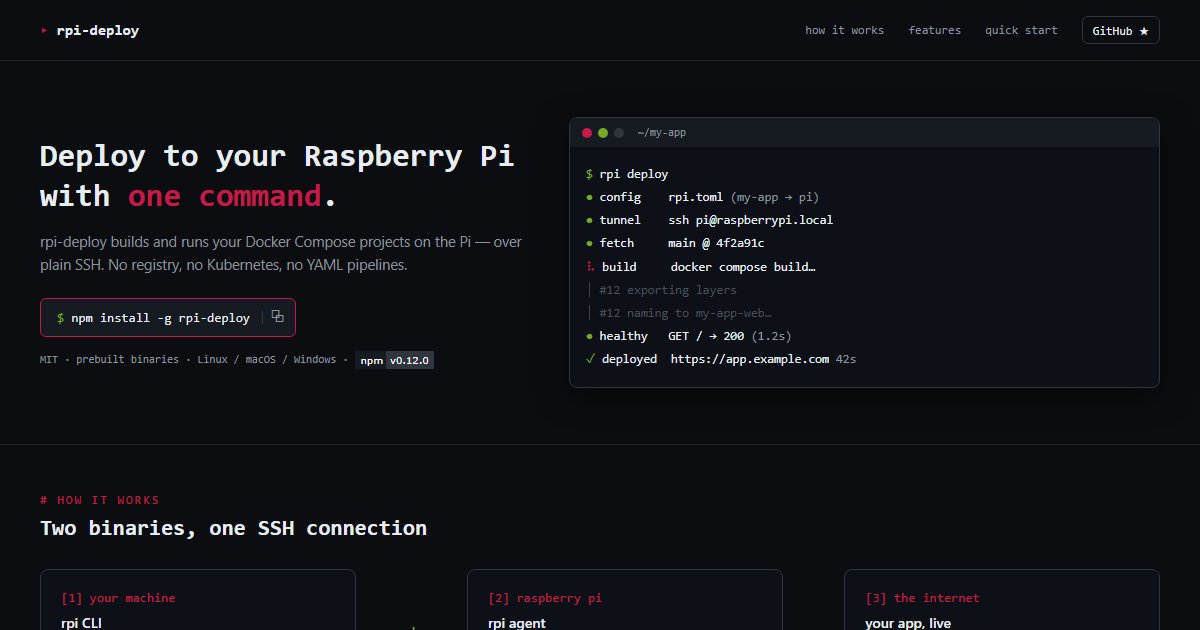
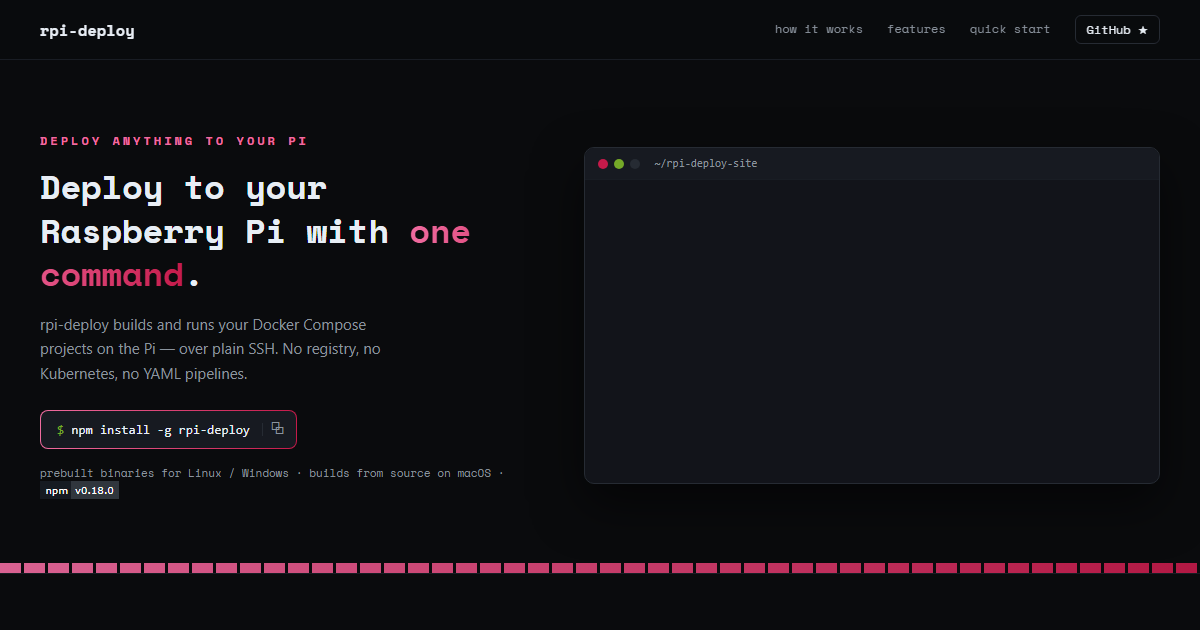
chore: sync landing with v0.18.0 release
Post-release audit found: hero/quick-start transcripts stuck on 0.17.1,
hero-meta overstated macOS as a prebuilt-binary platform (it's source-build
only), the rpi setup quick-start line was invented rather than transcribed
from real output, and the step-4 mini deploy concatenated two stage lines
onto one row that rpi deploy never actually prints. Also added feature
cards for the two flagship v0.18.0 capabilities (deploy pipeline view,
deploy-key preflight) and regenerated the OG screenshot for the hero edits.

diff --git a/src/index.html b/src/index.html
@@ -53,7 +53,7 @@
         <code><span class="prompt">$</span> npm install -g rpi-deploy</code>
         <button type="button" class="copy-btn" data-copy="npm install -g rpi-deploy" aria-label="Copy install command">⧉</button>
       </div>
-      <p class="hero-meta">prebuilt binaries · Linux / macOS / Windows · <img class="badge" src="https://img.shields.io/npm/v/rpi-deploy?style=flat-square&amp;label=npm&amp;labelColor=161b22&amp;color=30363d" alt="npm version"></p>
+      <p class="hero-meta">prebuilt binaries for Linux / Windows · builds from source on macOS · <img class="badge" src="https://img.shields.io/npm/v/rpi-deploy?style=flat-square&amp;label=npm&amp;labelColor=161b22&amp;color=30363d" alt="npm version"></p>
     </div>
     <div class="hero-terminal">
       <div class="terminal">
@@ -69,7 +69,7 @@
 <span class="g2">▓▓▓▓▓▓</span>  deploy · rpi-deploy-site
 <span class="g3">▓▓▓▓</span>
 <span class="g4">██</span></span>
-<span class="tline"><span class="raspberry">▸</span> agent 0.17.1 (api v1)</span>
+<span class="tline"><span class="raspberry">▸</span> agent 0.18.0 (api v1)</span>
 <span class="tline"><span class="raspberry">▸</span> deployment 3f9c21a4-8b7e-4c2a-9f1d-2e6a5b0c7d84 started; streaming logs:</span>
 <span class="tline"><span class="green">✓</span> fetch <span class="muted">(1.4s)</span></span>
 <span class="tline">fetched 4f2a91c</span>
@@ -153,6 +153,16 @@
         <h3>Installs in seconds</h3>
         <p>Pulls a prebuilt binary for your OS via npm — no Rust toolchain, no compile step, no Docker on your machine.</p>
       </div>
+      <div class="card feature">
+        <span class="dchip" aria-hidden="true"></span>
+        <h3>Live deploy pipeline</h3>
+        <p>Each stage — fetch, build, start, health, route, gc — collapses to a timed summary as it finishes, with a service count in the final stamp.</p>
+      </div>
+      <div class="card feature">
+        <span class="dchip" aria-hidden="true"></span>
+        <h3>Deploy-key preflight</h3>
+        <p>First deploy of a private repo won't fail on a missing key — <code>rpi</code> registers a read-only GitHub deploy key for you, or shows it and waits.</p>
+      </div>
     </div>
   </section>
 
@@ -166,7 +176,7 @@
           <pre class="qs-code"><span class="green">$</span> npm install -g rpi-deploy
 <span class="faint"># prebuilt binary, no toolchain</span>
 <span class="green">$</span> rpi --version
-rpi 0.17.1</pre>
+rpi 0.18.0</pre>
           <button type="button" class="copy-btn" data-copy="npm install -g rpi-deploy" aria-label="Copy step 1 command">⧉</button>
         </div>
       </div>
@@ -175,7 +185,7 @@ rpi 0.17.1</pre>
         <div class="qs-block">
           <pre class="qs-code"><span class="green">$</span> sudo rpi agent setup <span class="faint"># on the pi</span>
 <span class="green">$</span> rpi setup <span class="faint"># on your machine</span>
-<span class="raspberry">▸</span> <span class="green">setup complete — agent reachable</span></pre>
+<span class="raspberry">▸</span> <span class="green">saved profile 'pi' to ~/.config/pi/config.toml</span></pre>
           <button type="button" class="copy-btn" data-copy="sudo rpi agent setup&#10;rpi setup" aria-label="Copy step 2 commands">⧉</button>
         </div>
       </div>
@@ -194,7 +204,8 @@ port = <span class="amber">3000</span></pre>
         <p class="qs-caption"><span class="qs-num">4</span> Ship it</p>
         <div class="qs-block">
           <pre class="qs-code"><span class="green">$</span> rpi deploy
-<span class="green">✓</span> build <span class="muted">(38.2s)</span>  <span class="green">✓</span> health <span class="muted">(1.2s)</span>
+<span class="green">✓</span> build <span class="muted">(38.2s)</span>
+<span class="green">✓</span> health <span class="muted">(1.2s)</span>
 <span class="raspberry">▸</span> <span class="green">deployed ✓ rpi-deploy-site (44.9s)</span></pre>
           <button type="button" class="copy-btn" data-copy="rpi deploy" aria-label="Copy step 4 command">⧉</button>
         </div>